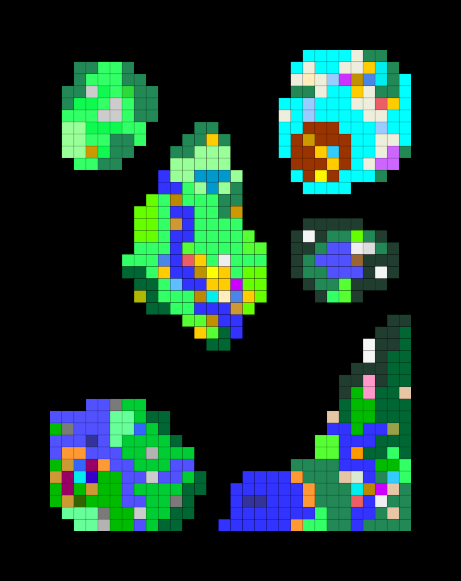
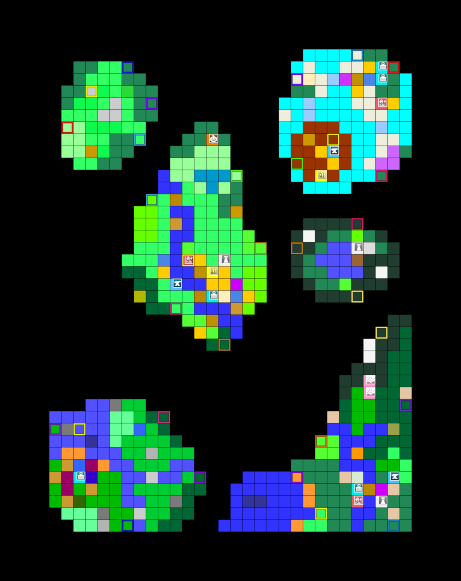
Updates map to include costume shops on outer planes (#29)

diff --git a/script.js b/script.js
@@ -5017,7 +5017,7 @@ function initializeTileNames() {
 	registerTileNames(11,8,1,"Twisted Space");
 	registerTileNames(12,8,1,"Maple Forest");
 	registerTileNames(13,8,1,"Maple Forest");
-	registerTileNames(14,8,1,"Cottage");
+	registerTileNames(14,8,1,"Witchwear Emporium");
 	registerTileNames(15,8,1,"Maple Forest");
 	registerTileNames(11,9,1,"Maple Forest");
 	registerTileNames(12,9,1,"Maple Forest");
@@ -6590,7 +6590,7 @@ function initializeTileNames() {
 	registerTileNames(8,19,2,"Twisted Space");
 	registerTileNames(9,19,2,"Egg Field");
 	registerTileNames(10,19,2,"Egg Field");
-	registerTileNames(11,19,2,"Stone Hut");
+	registerTileNames(11,19,2,"Devilishly Good Costumes");
 	registerTileNames(29,36,2,"Twisted Space");
 	registerTileNames(30,36,2,"Twisted Space");
 	registerTileNames(31,36,2,"Twisted Void");
@@ -10411,7 +10411,7 @@ function initializeTileTypes() {
 	registerTileTypes(11,8,1,"a Twisted Space");
 	registerTileTypes(12,8,1,"an Idyllic Forest");
 	registerTileTypes(13,8,1,"an Idyllic Forest");
-	registerTileTypes(14,8,1,"a Cottage");
+	registerTileTypes(14,8,1,"a Halloween Costume Shop");
 	registerTileTypes(15,8,1,"an Idyllic Forest");
 	registerTileTypes(11,9,1,"an Idyllic Forest");
 	registerTileTypes(12,9,1,"an Idyllic Forest");
@@ -11984,7 +11984,7 @@ function initializeTileTypes() {
 	registerTileTypes(8,19,2,"a Twisted Space");
 	registerTileTypes(9,19,2,"an Egg Field");
 	registerTileTypes(10,19,2,"an Egg Field");
-	registerTileTypes(11,19,2,"a Stone Hut");
+	registerTileTypes(11,19,2,"a Halloween Costume Shop");
 	registerTileTypes(29,36,2,"a Twisted Space");
 	registerTileTypes(30,36,2,"a Twisted Space");
 	registerTileTypes(31,36,2,"Twisted Void");
